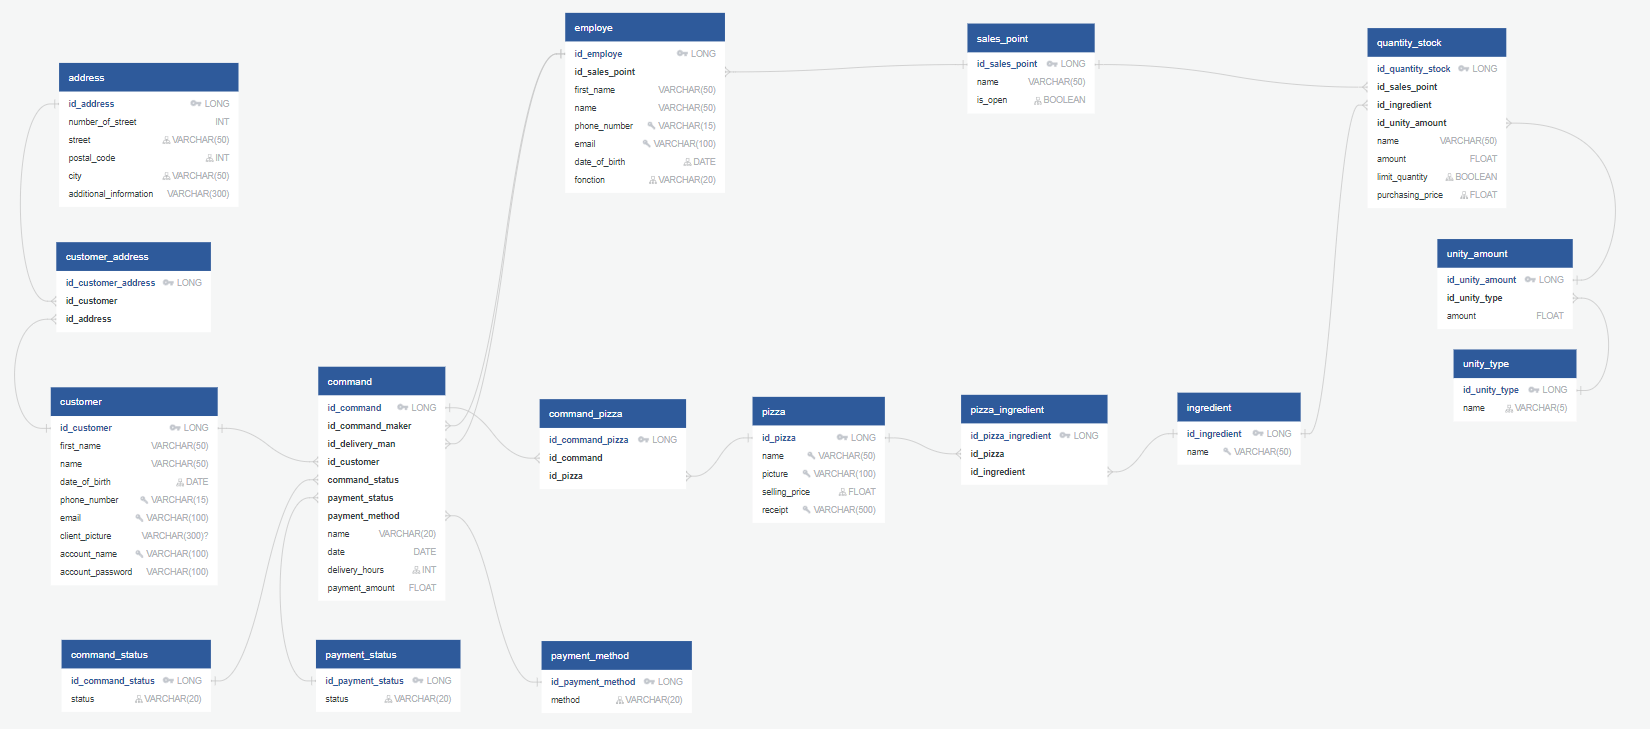
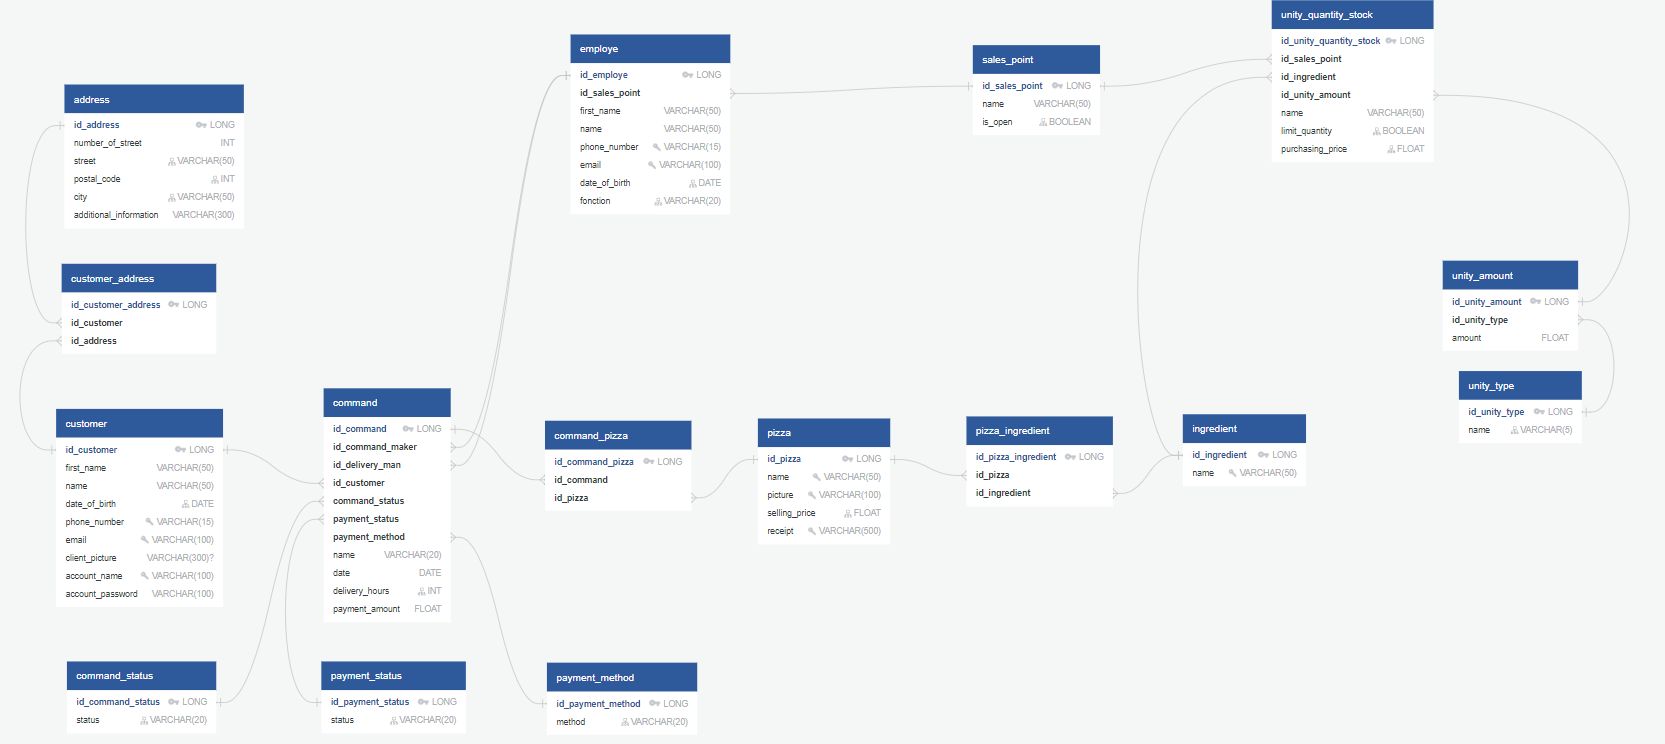
modify a little mistake on class diagramm and relational model

diff --git a/README.md b/README.md
@@ -57,7 +57,7 @@ The system requires a number of other classes:
 - payment_status: Status of payment.
 - pizza: Pizzas that can be ordered by the customer with their receipt.
 - ingredient: The list of ingredients needed to make a pizza.
-- quantity_stock: The inventory of ingredients available for each point of sale.
+- unity_quantity_stock: The inventory of ingredients available for each point of sale.
 - unity_amount: amount of the ingredients.
 - unity_type: Unity types of the ingredients.
 
